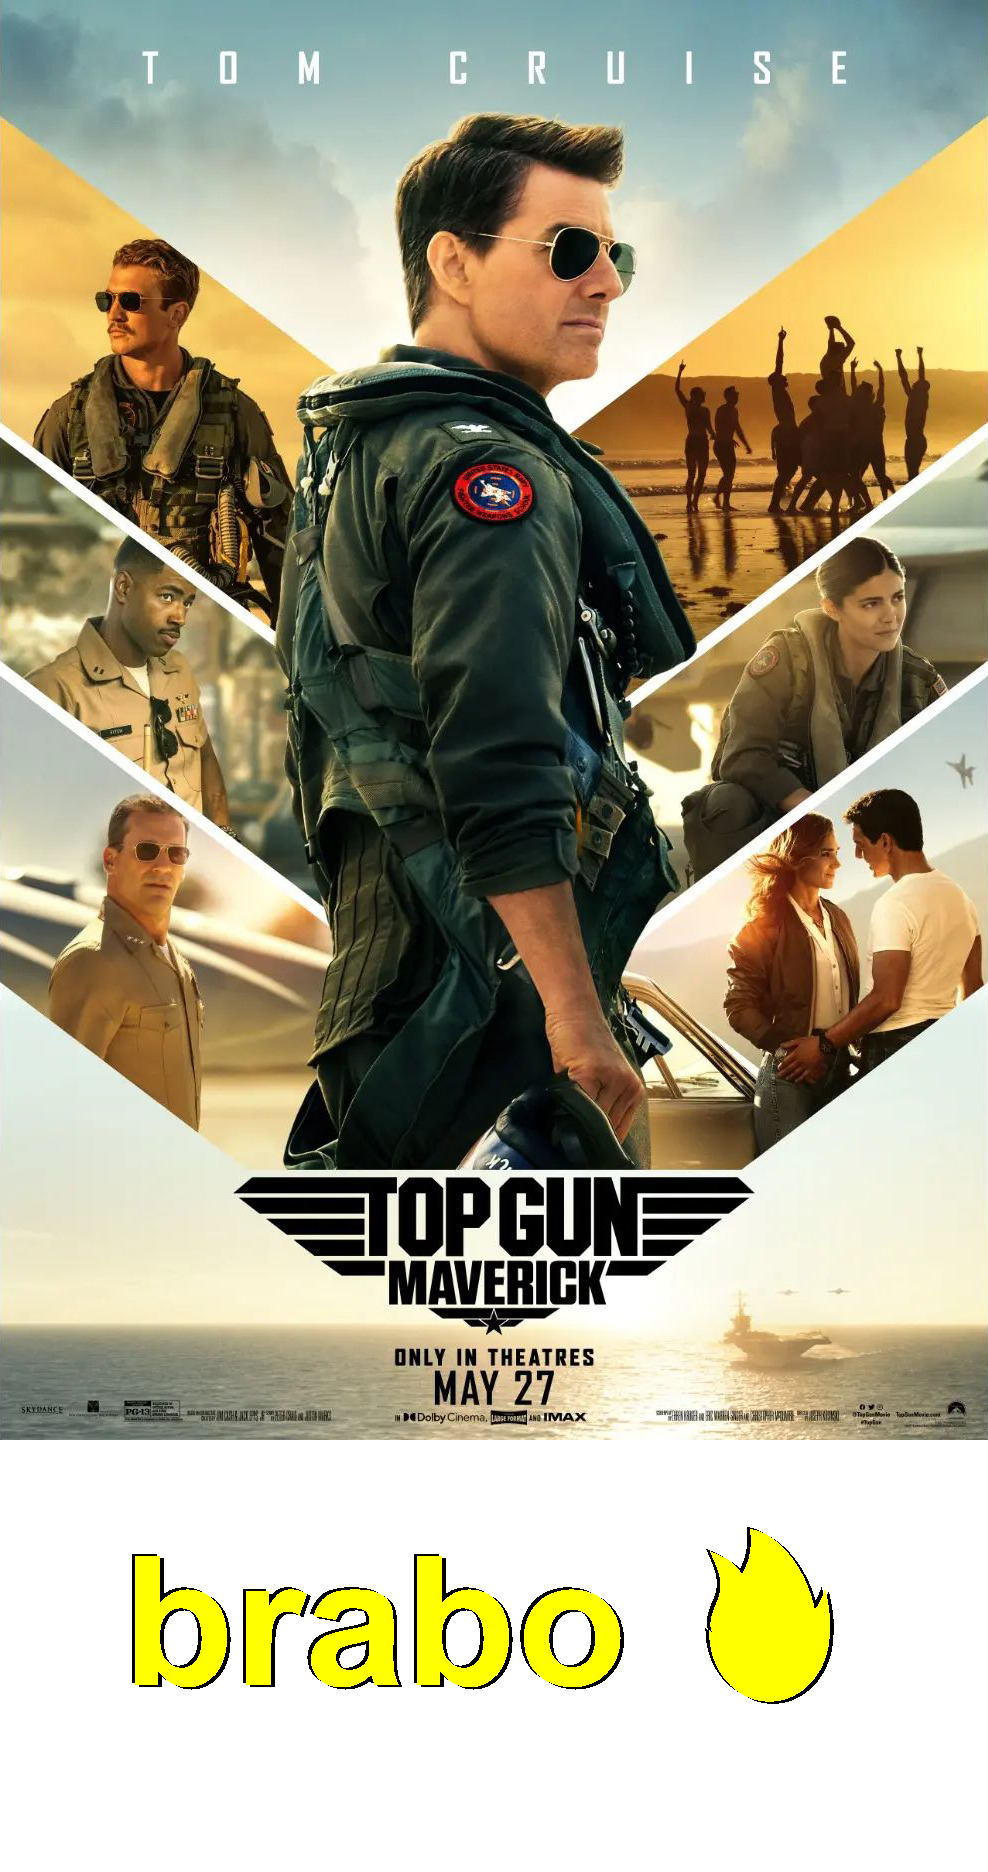
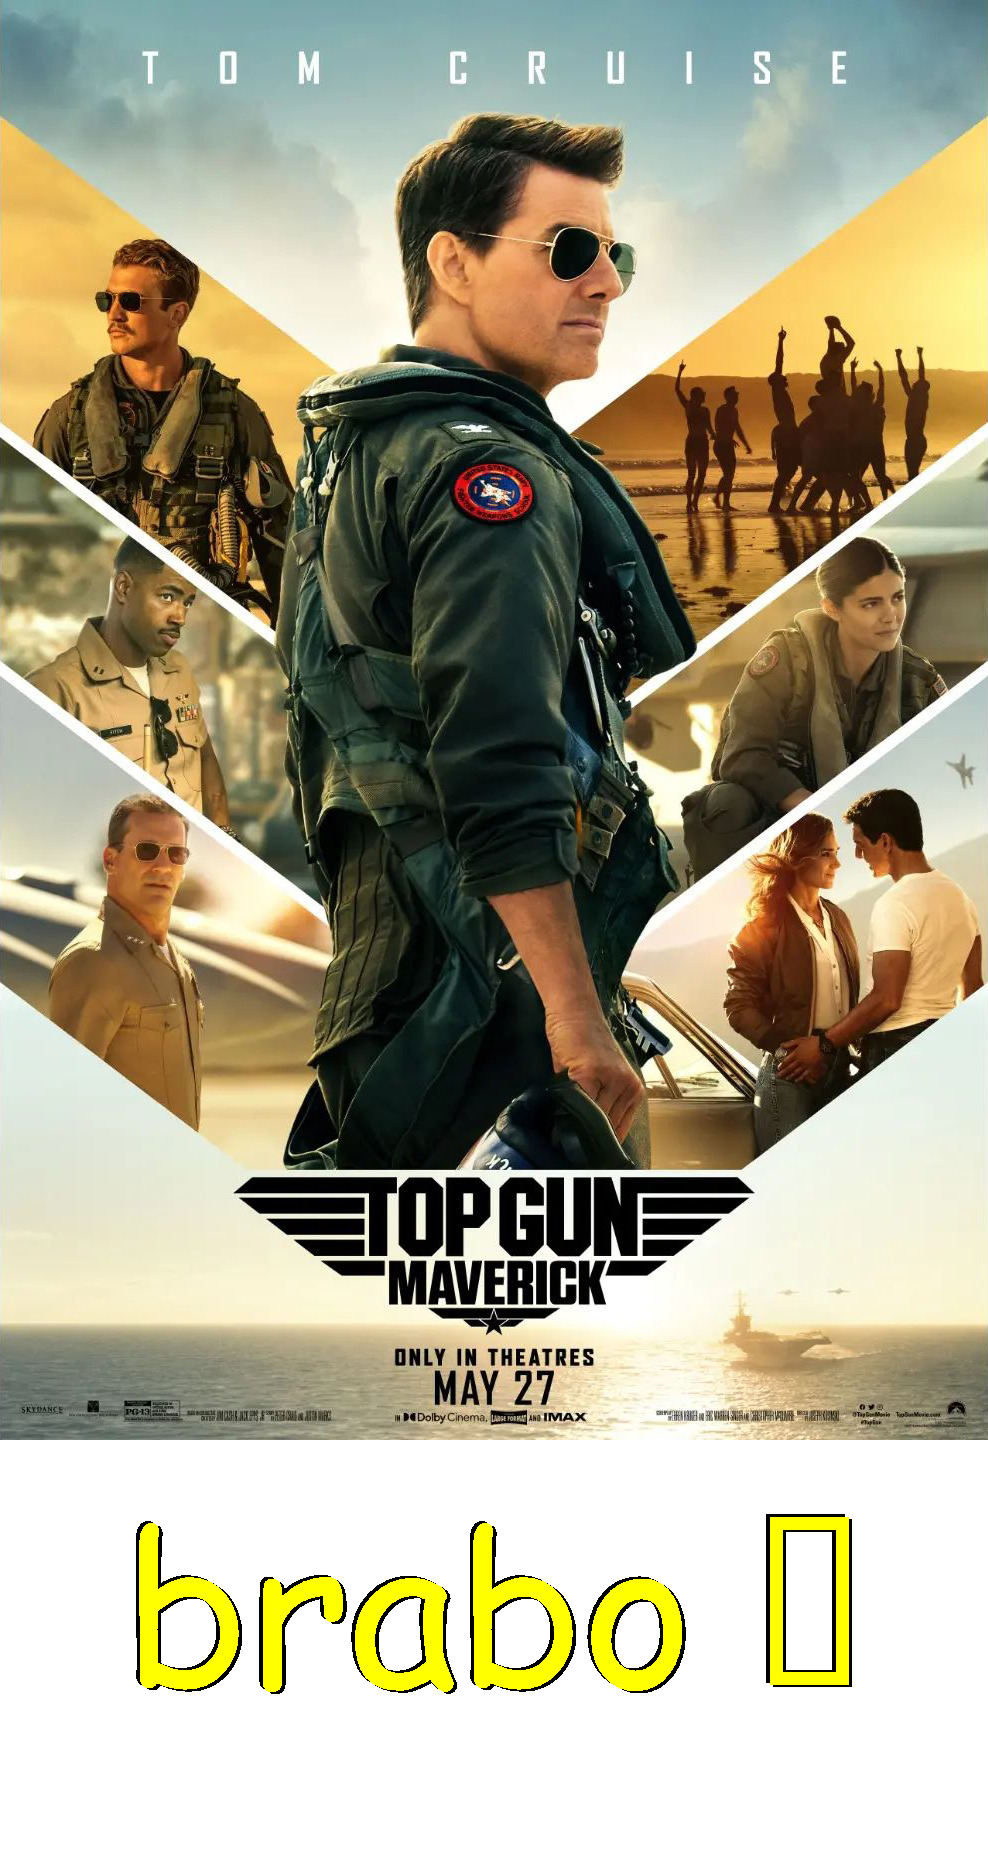
PequenosAjustes

Changed region(s): [[0.1215, 0.8056, 0.8806, 0.9295]]

diff --git a/Project/alura-stickers/src/FabricaDeFigurinhas.java b/Project/alura-stickers/src/FabricaDeFigurinhas.java
@@ -7,130 +7,127 @@ import java.awt.font.TextLayout;
 import java.awt.image.BufferedImage;
 import java.io.File;
 import java.io.FileInputStream;
+import java.io.FileNotFoundException;
 import java.io.IOException;
 import java.io.InputStream;
 
+import javax.imageio.IIOException;
 import javax.imageio.ImageIO;
 import javax.swing.JLabel;
 
 public class FabricaDeFigurinhas {
 
-    static Font comic;
-    
-    public void Cria(InputStream imageSource,String legenda,String outputFileName) throws Exception {
-        
-        // Ler imagem base
-        BufferedImage imagemOriginal = ImageIO.read(imageSource);
+  static Font comic;
 
-        // Criar nova imagem em memória com transparencia e tamanho novo
-        int largura = imagemOriginal.getWidth();
-        int altura = imagemOriginal.getHeight();
-        float offsetBase = altura * 0.3f;
-        int novaAltura = Math.round(altura + (offsetBase));
-        BufferedImage novaImagem = new BufferedImage(largura, novaAltura, BufferedImage.TRANSLUCENT);
+  public void Cria(InputStream imageSource, String legenda, String outputFileName) throws Exception {
 
-        // Copiar imagem original para a nova imagem (em memória)
-        Graphics2D graphics = (Graphics2D) novaImagem.getGraphics();
-        graphics.drawImage(imagemOriginal, 0, 0, null);
-        
-        // Configurar a font do texto
-         try {
-            //Criar font a partir de file no projeto
-            InputStream fontInputStream = new FileInputStream(new File("src/Font/comic.ttf"));
-            comic = Font.createFont(Font.TRUETYPE_FONT, fontInputStream);
-            
-        } catch (FontFormatException e) {
-            e.printStackTrace();
-        } catch (IOException e) {
-            e.printStackTrace();
-        }
-        
-        //Font font = new Font(impact, Font.BOLD, 160);
-        graphics.setFont(comic);
-        
-        // Criar outline para a frase
-        //graphics.setFont(graphics.getFont().deriveFont(Font.BOLD, largura * 0.16f ));// tamanho bom para topzera
-        System.out.println("Largura é: "+ largura + " font size é: "+ largura * 0.16f);
-        graphics.setColor(Color.black);
-        
-        float offsetAltura = 0.001127f * novaAltura;
-        float offsetLargura = largura * 0.003618f;
+    // Ler imagem base
+    BufferedImage imagemOriginal = ImageIO.read(imageSource);
 
-        // recalcular size da font de acordo com o espaço disponivel
-        JLabel label = new JLabel(legenda);
-        float larguraRect = Math.round(largura * 0.75f);
-        Rectangle legendaRect = new Rectangle(Math.round(larguraRect), Math.round(offsetBase));
-        graphics.setFont(scaleFont(label, legendaRect, graphics));
+    // Criar nova imagem em memória com transparencia e tamanho novo
+    int largura = imagemOriginal.getWidth();
+    int altura = imagemOriginal.getHeight();
+    float offsetBase = altura * 0.3f;
+    int novaAltura = Math.round(altura + (offsetBase));
+    BufferedImage novaImagem = new BufferedImage(largura, novaAltura, BufferedImage.TRANSLUCENT);
 
-        // Desenhar outline da frase
-        graphics.drawString(legenda, (largura/8 + offsetLargura), novaAltura - (novaAltura*0.1f) + offsetAltura);
-        graphics.drawString(legenda, (largura/8 - offsetLargura), novaAltura - (novaAltura*0.1f) - offsetAltura);
-        
-        // Escrever uma frase na nova imagem
-        graphics.setColor(Color.yellow);
-        graphics.drawString(legenda, (largura/8), novaAltura - (novaAltura*0.1f)); // calcular offsets
+    // Copiar imagem original para a nova imagem (em memória)
+    Graphics2D graphics = (Graphics2D) novaImagem.getGraphics();
+    graphics.drawImage(imagemOriginal, 0, 0, null);
 
+    // Configurar a font do texto
 
+    try {
+      // Criar font a partir de file no projeto
+      InputStream fontInputStream = new FileInputStream(new File("src/Font/comic.ttf"));
+      comic = Font.createFont(Font.TRUETYPE_FONT, fontInputStream);
 
-        // Escrever a imagem nova em um arquivo
-        File f = new File("src/img/saida/" + outputFileName + ".png");
-        
-        
-            try {
-                ImageIO.write(novaImagem, "png", f);
-            } catch (Exception e) {
-                if (f.mkdirs()) {
-                    System.out.println("Exception catched" + e);
-                ImageIO.write(novaImagem, "png", new File(f.getPath()));
-            }
-            }
-            
-      
-
+    } catch (FontFormatException e) {
+      e.printStackTrace();
+    } catch (IOException e) {
+      e.printStackTrace();
     }
 
-    public Font scaleFont(
-    final JLabel label, final Rectangle dst, final Graphics2D graphics ) {
-  assert label != null;
-  assert dst != null;
-  assert graphics != null;
+    graphics.setFont(comic);
 
-  final var font = label.getFont();
-  final var text = label.getText();
+    // Criar outline para a frase
+    float offsetAltura = 0.001127f * novaAltura;
+    float offsetLargura = largura * 0.003618f;
 
-  final var frc = ((Graphics2D) graphics).getFontRenderContext();
+    // recalcular size da font de acordo com o espaço disponivel
+    JLabel label = new JLabel(legenda);
+    label.setFont(comic);
+    float larguraRect = Math.round(largura * 0.75f);
+    Rectangle legendaRect = new Rectangle(Math.round(larguraRect), Math.round(offsetBase));
+    graphics.setFont(scaleFont(label, legendaRect, graphics));
 
-  final var dstWidthPx = dst.getWidth();
-  final var dstHeightPx = dst.getHeight();
+    // Desenhar outline da frase
+    graphics.setColor(Color.black);
+    graphics.drawString(legenda, (largura / 8 + offsetLargura), novaAltura - (novaAltura * 0.1f) + offsetAltura);
+    graphics.drawString(legenda, (largura / 8 - offsetLargura), novaAltura - (novaAltura * 0.1f) - offsetAltura);
 
-  var minSizePt = 1f;
-  var maxSizePt = 1000f;
-  var scaledFont = font;
-  float scaledPt = scaledFont.getSize();
+    // Escrever uma frase na nova imagem
+    graphics.setColor(Color.yellow);
+    graphics.drawString(legenda, (largura / 8), novaAltura - (novaAltura * 0.1f));
 
-  while( maxSizePt - minSizePt > 1f ) {
-    scaledFont = scaledFont.deriveFont( scaledPt );
+    // Escrever a imagem nova em um arquivo
+    File f = new File("src/img/saida/" + outputFileName + ".png");
 
-    final var layout = new TextLayout( text, scaledFont, frc );
-    final var fontWidthPx = layout.getVisibleAdvance();
-
-    final var metrics = scaledFont.getLineMetrics( text, frc );
-    final var fontHeightPx = metrics.getHeight();
-
-    if( (fontWidthPx > dstWidthPx) || (fontHeightPx > dstHeightPx) ) {
-      maxSizePt = scaledPt;
+    try {
+      ImageIO.write(novaImagem, "png", f);
     }
-    else {
-      minSizePt = scaledPt;
+     catch (FileNotFoundException | IIOException e) // caso o diretório não exista
+    {
+      e.printStackTrace();
+      if (f.mkdirs())
+      {
+        ImageIO.write(novaImagem, "png", new File(f.getPath()));
+      }
     }
-
-    scaledPt = (minSizePt + maxSizePt) / 2;
   }
 
-  return scaledFont.deriveFont( (float) Math.floor( scaledPt ) );
-}
-    // public static void main(String[] args) throws Exception {
-    //     FabricaDeFigurinhas fabrica = new FabricaDeFigurinhas();
-    //     fabrica.Cria(new URL("https://raw.githubusercontent.com/alura-cursos/imersao-java-2-api/main/MostPopularMovies_3.jpg").openStream(),"figurinha2");
-    // }
+  public Font scaleFont(
+      final JLabel label, final Rectangle dst, final Graphics2D graphics) {
+    assert label != null;
+    assert dst != null;
+    assert graphics != null;
+
+    final var font = label.getFont();
+    final var text = label.getText();
+
+    final var frc = ((Graphics2D) graphics).getFontRenderContext();
+
+    final var dstWidthPx = dst.getWidth();
+    final var dstHeightPx = dst.getHeight();
+
+    var minSizePt = 1f;
+    var maxSizePt = 1000f;
+    var scaledFont = font;
+    float scaledPt = scaledFont.getSize();
+
+    while (maxSizePt - minSizePt > 1f) {
+      scaledFont = scaledFont.deriveFont(scaledPt);
+
+      final var layout = new TextLayout(text, scaledFont, frc);
+      final var fontWidthPx = layout.getVisibleAdvance();
+
+      final var metrics = scaledFont.getLineMetrics(text, frc);
+      final var fontHeightPx = metrics.getHeight();
+
+      if ((fontWidthPx > dstWidthPx) || (fontHeightPx > dstHeightPx)) {
+        maxSizePt = scaledPt;
+      } else {
+        minSizePt = scaledPt;
+      }
+
+      scaledPt = (minSizePt + maxSizePt) / 2;
+    }
+
+    return scaledFont.deriveFont((float) Math.floor(scaledPt));
+  }
+  // public static void main(String[] args) throws Exception {
+  // FabricaDeFigurinhas fabrica = new FabricaDeFigurinhas();
+  // fabrica.Cria(new
+  // URL("https://raw.githubusercontent.com/alura-cursos/imersao-java-2-api/main/MostPopularMovies_3.jpg").openStream(),"figurinha2");
+  // }
 }
